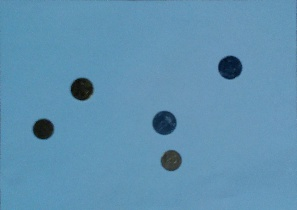
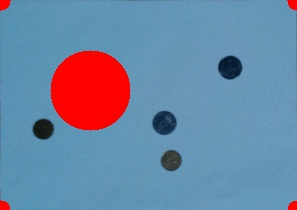
Added prototype of reverse homography

diff --git a/Coins/CoinsSource.cpp b/Coins/CoinsSource.cpp
@@ -96,6 +96,47 @@ void changeInput(int, void* img)
 	Mat dst;
 	std::vector<Point> transfromedPoints;
 	paperToRectangle(*imgMat, dst, sourceCorners, std::inserter(transfromedPoints, transfromedPoints.begin()), k);
+
+	Mat draw = Mat::zeros(dst.size(), CV_8UC3);
+	circle(dst, Point(100, 100), 40, Scalar(0, 0, 255), -1);
+
+	Point2f transP2f[4];
+	transP2f[0] = transfromedPoints[0];
+	transP2f[1] = transfromedPoints[1];
+	transP2f[2] = transfromedPoints[2];
+	transP2f[3] = transfromedPoints[3];
+
+	Point2f sourceP2f[4];
+	sourceP2f[0] = sourceCorners[0];
+	sourceP2f[1] = sourceCorners[2];
+	sourceP2f[2] = sourceCorners[3];
+	sourceP2f[3] = sourceCorners[1];
+	for (size_t i = 0; i < 4; i++)
+	{
+		circle(dst, transP2f[i], 10, Scalar(0, 0, 255), -1);
+		circle(dst, sourceP2f[i], 150, Scalar(0, 255, 0), -1);
+	}
+
+	Mat sc = transformVectorToMatrix(sourceCorners);
+	sortMatrix(sc);
+	matrixBackToArray(sc, sourceP2f);
+
+	Mat transMat = getPerspectiveTransform(sourceP2f, transP2f);
+
+	Mat drawT;
+
+	vector<Point2f> s;
+	vector<Point2f> t;
+
+	std::transform(sourceCorners.begin(), sourceCorners.end(), back_inserter(s), [](Point p) { return p; });
+	std::transform(transfromedPoints.begin(), transfromedPoints.end(), back_inserter(t), [](Point p) { return p; });
+	warpPerspective(dst, drawT, transMat,draw.size(), WARP_INVERSE_MAP);
+	namedWindow("drawT", CV_WINDOW_NORMAL);
+	imshow("drawT", drawT);
+	Mat ms(s);
+	Mat mt(t);
+	//warpPerspective(ms,mt,drawT, Size(1, 4), WARP_INVERSE_MAP);
+
 	cropInterestRegion(dst, transfromedPoints);
 	imwrite(a4 + name + "_cropped_" + ext, dst);
 
@@ -106,11 +147,7 @@ void changeInput(int, void* img)
 
 }
 
-template <typename T, typename Alloc, template <typename, typename> class V>
-void print_container(std::insert_iterator<V<T, Alloc>> &con)
-{
-	
-}
+
 
 int main()
 {
